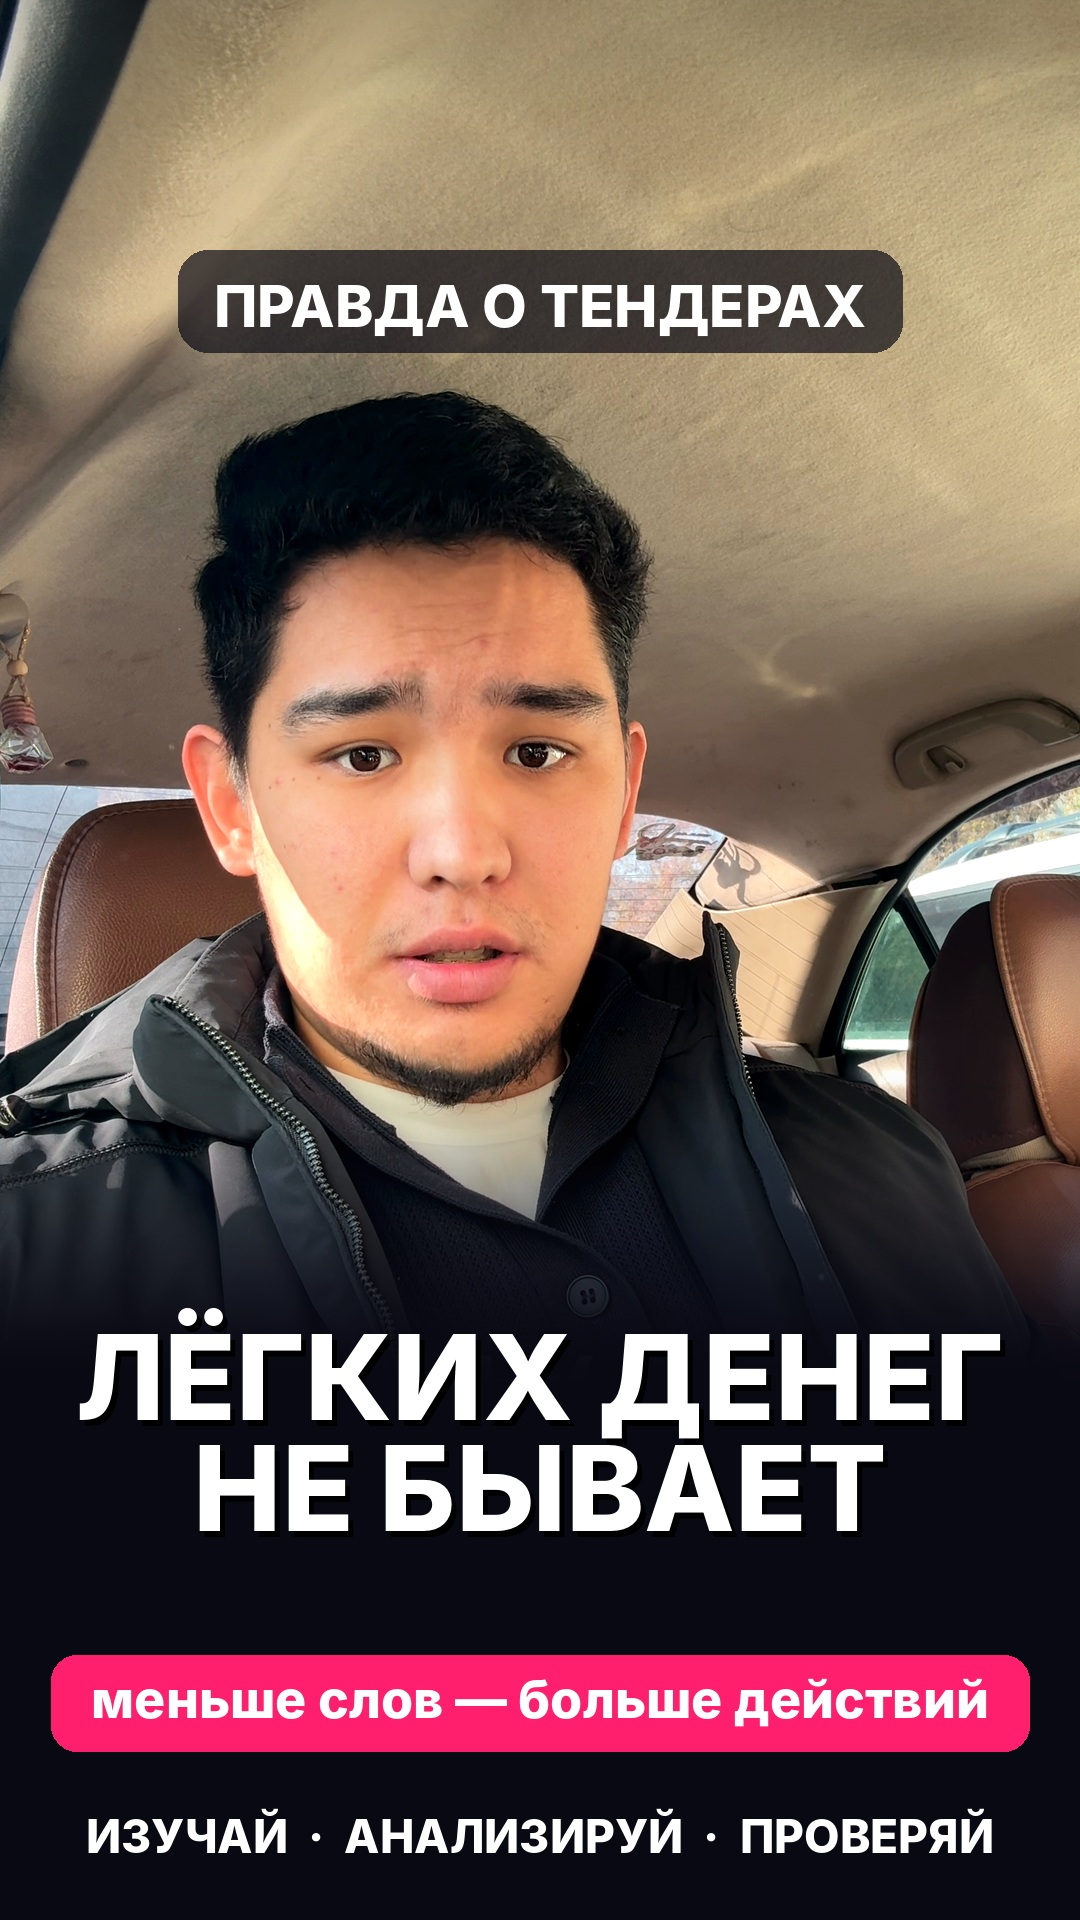
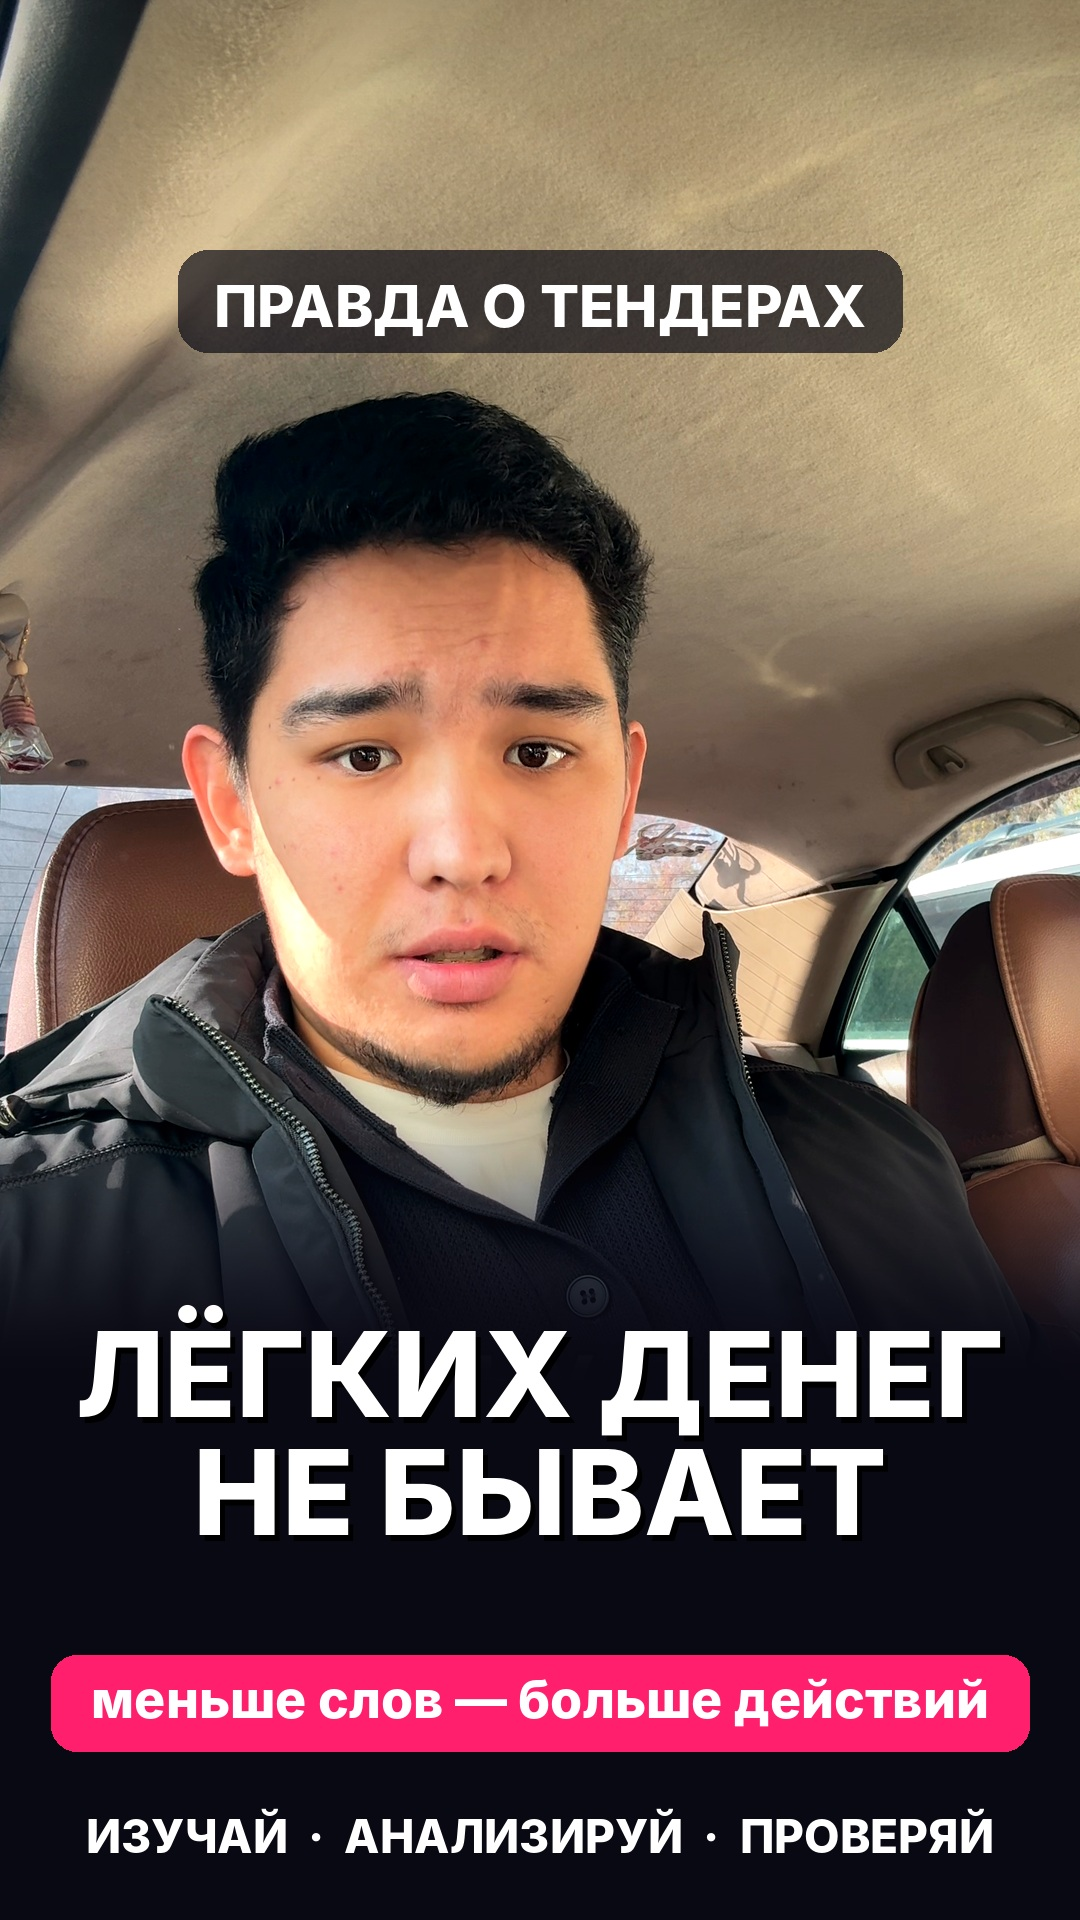
Add covers for the two new videos, unify headline spacing
Claude-Session: https://claude.ai/code/session_01DLTSzPkxy7Bh913uRP927L

diff --git a/edit/make_cover.py b/edit/make_cover.py
@@ -69,8 +69,8 @@ lines = [a.h1, a.h2]
 fsz = min(fit(l, 940, 230).size for l in lines)   # одинаковый размер строк
 f = font(fsz)
 for i, line in enumerate(lines):
-    block = fsz * (0.94 * (len(lines) - 1) + 1)
-    y = int(1200 + max(0, (440 - block) / 2) + i * fsz * 0.94)
+    block = fsz * (1.0 * (len(lines) - 1) + 1)
+    y = int(1200 + max(0, (440 - block) / 2) + i * fsz * 1.0)
     # тень для читаемости
     d.text((cx - f.getlength(line) / 2 + 5, y + 6), line, font=f, fill=(0, 0, 0))
     centered(line, y, f, (255, 255, 255))
